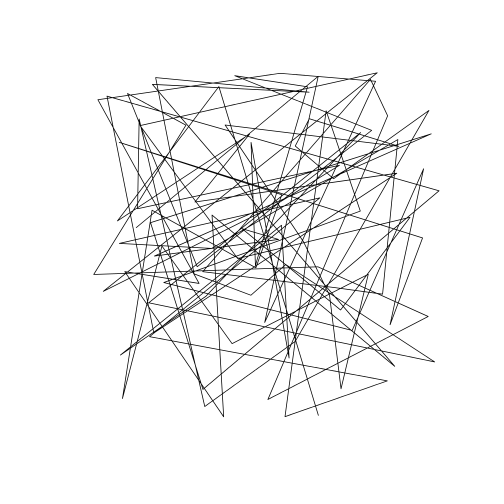
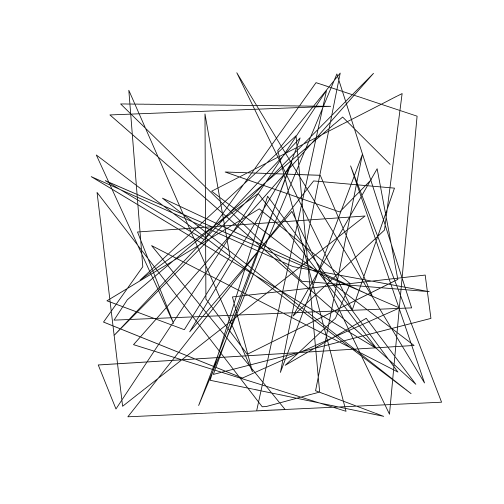
Deploy mhallwor/mhallwor.github.io to github.com/mhallwor/mhallwor.github.io.git:master

Changed region(s): [[0.1786, 0.1488, 0.8929, 0.8333]]

diff --git a/_pages/basics_SpatialPoints.md b/_pages/basics_SpatialPoints.md
@@ -51,7 +51,7 @@ If installing these packages for the first time consider adding <code>dependenci
         
 <br>
 
-<a href="https://raw.githubusercontent.com/mhallwor/mhallwor.github.io/develop/Rscripts/basics_SpatialPoints.R" target="_blank" class="btn btn--info">Download R script</a> Last modified: 2019-09-06 14:31:19
+<a href="https://raw.githubusercontent.com/mhallwor/mhallwor.github.io/develop/Rscripts/basics_SpatialPoints.R" target="_blank" class="btn btn--info">Download R script</a> Last modified: 2019-09-06 15:11:12
 
 <hr>
 
@@ -85,12 +85,12 @@ head(cbind(x_coords,y_coords))
 
 ```
 ##       x_coords y_coords
-## [1,] -86.97697 28.18773
-## [2,] -82.86484 34.03369
-## [3,] -89.43749 38.66370
-## [4,] -90.74652 29.84924
-## [5,] -97.77447 35.58599
-## [6,] -92.55079 26.32580
+## [1,] -87.04578 35.01953
+## [2,] -88.00847 37.36720
+## [3,] -95.77084 29.40985
+## [4,] -86.99423 31.60990
+## [5,] -82.89600 27.63356
+## [6,] -83.86421 38.52248
 ```
 
 Now that we have generated random coordinates we can make those data spatially explicit. We'll use the `SpatialPoints` function in the `sp` package to do that. Before we use the function let's see what arguments we need to pass to `SpatialPoints`.
@@ -124,11 +124,11 @@ str(firstPoints)
 
 ```
 ## Formal class 'SpatialPoints' [package "sp"] with 3 slots
-##   ..@ coords     : num [1:100, 1:2] -87 -82.9 -89.4 -90.7 -97.8 ...
+##   ..@ coords     : num [1:100, 1:2] -87 -88 -95.8 -87 -82.9 ...
 ##   .. ..- attr(*, "dimnames")=List of 2
 ##   .. .. ..$ : NULL
 ##   .. .. ..$ : chr [1:2] "x_coords" "y_coords"
-##   ..@ bbox       : num [1:2, 1:2] -99.8 25.1 -80.1 44.7
+##   ..@ bbox       : num [1:2, 1:2] -99.8 25.2 -80 44.9
 ##   .. ..- attr(*, "dimnames")=List of 2
 ##   .. .. ..$ : chr [1:2] "x_coords" "y_coords"
 ##   .. .. ..$ : chr [1:2] "min" "max"
@@ -166,7 +166,7 @@ euclidDist <- sp::spDists(firstPoints,longlat = FALSE)
 ```
 
 ```
-##  num [1:100, 1:100] 0 7.15 10.76 4.12 13.09 ...
+##  num [1:100, 1:100] 0 2.54 10.37 3.41 8.47 ...
 ```
 
 Another option is to calculate the GreatCircle distance. 
@@ -178,7 +178,7 @@ gcDist <- sp::spDists(firstPoints,longlat = TRUE)
 
 
 ```
-##  num [1:100, 1:100] 0 757 1184 411 1309 ...
+##  num [1:100, 1:100] 0 275 1031 378 909 ...
 ```
 
 ![plot of chunk unnamed-chunk-5](/figure/pages/basics_SpatialPoints/unnamed-chunk-5-1.png)

diff --git a/_pages/basics_SpatialLines.md b/_pages/basics_SpatialLines.md
@@ -53,7 +53,7 @@ If installing these packages for the first time consider adding <code>dependenci
         
 <br>
 
-<a href="https://raw.githubusercontent.com/mhallwor/mhallwor.github.io/develop/Rscripts/basics_SpatialLines.R" target="_blank" class="btn btn--info">Download R script</a> Last modified: 2019-09-06 14:31:19
+<a href="https://raw.githubusercontent.com/mhallwor/mhallwor.github.io/develop/Rscripts/basics_SpatialLines.R" target="_blank" class="btn btn--info">Download R script</a> Last modified: 2019-09-06 15:11:12
 
 <hr>
 
@@ -81,12 +81,12 @@ ID <- paste0("line_",1:100)
 
 ```
 ##    x_coords y_coords     ID
-## 1 -86.98760 25.16135 line_1
-## 2 -92.73426 44.15629 line_2
-## 3 -98.59655 36.39272 line_3
-## 4 -90.96307 41.40883 line_4
-## 5 -94.11664 37.48520 line_5
-## 6 -82.45573 39.14899 line_6
+## 1 -82.95681 39.56960 line_1
+## 2 -85.65933 42.26265 line_2
+## 3 -97.91157 31.86510 line_3
+## 4 -98.66840 30.70418 line_4
+## 5 -81.73140 31.40011 line_5
+## 6 -85.98674 44.71538 line_6
 ```
 
 Now that we have the endpoints, we need to create a <code>Line</code> object then convert that to a <code>Lines</code> object and give them an ID then we can finally convert them to <code>SpatialLines</code>. Here, we'll use the first two points for our first line.
@@ -116,7 +116,7 @@ sp_line <- as(points,"SpatialLines")
 ```
 ## class       : SpatialLines 
 ## features    : 1 
-## extent      : -99.96501, -80.01266, 25.07576, 44.95179  (xmin, xmax, ymin, ymax)
+## extent      : -99.9689, -80.02775, 25.20104, 44.78165  (xmin, xmax, ymin, ymax)
 ## crs         : NA
 ```
 
@@ -141,7 +141,7 @@ rgeos::gLength(sp_line)
 ```
 
 ```
-## [1] 994.5918
+## [1] 1088.929
 ```
 
 Another option is to return the great circle distance. The following code calculates the great circle distance along a line and returns the distance in meters. 
@@ -152,7 +152,7 @@ geosphere::lengthLine(sp_line)
 ```
 
 ```
-## [1] 99062555
+## [1] 111482369
 ```
 
 <div style="background-color: #ffffe6; border-radius: 25px; text-align:center; vertical-align: middle; padding: 3px 0; margin: auto; width:600px; box-shadow: 4px 5px #f2f2f2;"> 

diff --git a/_pages/R_basics.md b/_pages/R_basics.md
@@ -518,8 +518,8 @@ str(list.data)
 ##  $ id       : int [1:5] 1 2 3 4 5
 ##  $ names    : chr [1:2] "Dr. Seuss" "Cat in the hat"
 ##  $ DataFrame:'data.frame':	10 obs. of  2 variables:
-##   ..$ starttimes: num [1:10] -0.848 -2.694 -0.294 -0.533 -1.393 ...
-##   ..$ endtimes  : num [1:10] 27.7 25.9 26.3 28.4 28.3 ...
+##   ..$ starttimes: num [1:10] -0.511 -0.328 1.144 -0.115 0.725 ...
+##   ..$ endtimes  : num [1:10] 27.1 28.4 21.3 28.3 22.7 ...
 ```
 
 ```r
@@ -535,16 +535,16 @@ list.data
 ## 
 ## $DataFrame
 ##    starttimes endtimes
-## 1  -0.8480566 27.70237
-## 2  -2.6936647 25.90761
-## 3  -0.2942636 26.25646
-## 4  -0.5327080 28.35952
-## 5  -1.3930423 28.29071
-## 6  -0.5289242 20.68907
-## 7  -0.2054674 29.64226
-## 8   1.2449536 28.70912
-## 9  -2.3816743 22.98064
-## 10  0.4738619 28.36725
+## 1  -0.5114304 27.07255
+## 2  -0.3277939 28.35181
+## 3   1.1441886 21.25882
+## 4  -0.1150510 28.34682
+## 5   0.7253942 22.73851
+## 6   0.6497372 22.61418
+## 7   0.3848442 22.07221
+## 8   0.7783487 21.69545
+## 9   0.5486185 26.07782
+## 10 -0.8821229 25.48114
 ```
 Accessing data stored within lists can be a little tricky.    
 Here is an example of how to extract the 5th element of starttime in the DataFrame object in our list.data object. 
@@ -554,7 +554,7 @@ list.data[[3]][5,1]
 ```
 
 ```
-## [1] -1.393042
+## [1] 0.7253942
 ```
 
 ```r
@@ -562,7 +562,7 @@ list.data[[3]]$starttime[5]
 ```
 
 ```
-## [1] -1.393042
+## [1] 0.7253942
 ```
 
 ```r
@@ -570,9 +570,9 @@ list.data$DataFrame$starttime[5]
 ```
 
 ```
-## [1] -1.393042
+## [1] 0.7253942
 ```
 
 <a href="#TOP">back to top</a>
 
-<a href="https://raw.githubusercontent.com/mhallwor/mhallwor.github.io/develop/Rscripts/R_basics.R" target="_blank" class="btn btn--info">Download R script</a> Last modified: 2019-09-06 14:31:19
+<a href="https://raw.githubusercontent.com/mhallwor/mhallwor.github.io/develop/Rscripts/R_basics.R" target="_blank" class="btn btn--info">Download R script</a> Last modified: 2019-09-06 15:11:12

diff --git a/_pages/advanced_Rasters.md b/_pages/advanced_Rasters.md
@@ -394,7 +394,7 @@ You may notice that some values are -Inf or Inf. We'll ignore that for now becau
 ## resolution : 231.6564, 231.6564  (x, y)
 ## extent     : -11119505, -10007555, 3335852, 4447802  (xmin, xmax, ymin, ymax)
 ## crs        : +proj=sinu +lon_0=0 +x_0=0 +y_0=0 +a=6371007.181 +b=6371007.181 +units=m +no_defs 
-## source     : /tmp/RtmpuieJqY/raster/r_tmp_2019-09-06_144517_20362_19462.grd 
+## source     : /tmp/RtmpuvqJ8x/raster/r_tmp_2019-09-06_152314_20214_22949.grd 
 ## names      : layer 
 ## values     : -201, 201  (min, max)
 ```
@@ -428,7 +428,7 @@ Sys.time()-a
 ```
 
 ```
-## Time difference of 29.87453 secs
+## Time difference of 27.66883 secs
 ```
 NDVI values should range in the values between -1 and 1. Let's make sure that's the case by setting the upper and lower values manually.
 
@@ -460,7 +460,7 @@ diff_ndvi <- NDVI_2017-NDVI_2000
 ## resolution : 231.6564, 231.6564  (x, y)
 ## extent     : -11119505, -8895604, 3335852, 4447802  (xmin, xmax, ymin, ymax)
 ## crs        : +proj=sinu +lon_0=0 +x_0=0 +y_0=0 +a=6371007.181 +b=6371007.181 +units=m +no_defs 
-## source     : /tmp/RtmpuieJqY/raster/r_tmp_2019-09-06_144753_20362_90692.grd 
+## source     : /tmp/RtmpuvqJ8x/raster/r_tmp_2019-09-06_152543_20214_46099.grd 
 ## names      : layer 
 ## values     : -2, 2  (min, max)
 ```
@@ -542,4 +542,4 @@ plotRGB(ndvi_brick)
 <a href="#TOP">Back to top</a>
 
 
-<a href="https://raw.githubusercontent.com/mhallwor/mhallwor.github.io/develop/Rscripts/advanced_Rasters.R" target="_blank" class="btn btn--info">Download R script</a> Last modified: 2019-09-06 14:31:19
+<a href="https://raw.githubusercontent.com/mhallwor/mhallwor.github.io/develop/Rscripts/advanced_Rasters.R" target="_blank" class="btn btn--info">Download R script</a> Last modified: 2019-09-06 15:11:12

diff --git a/_pages/projections.md b/_pages/projections.md
@@ -56,7 +56,7 @@ If installing these packages for the first time consider adding <code>dependenci
 <br>
 <hr> 
 
-<a href="https://raw.githubusercontent.com/mhallwor/mhallwor.github.io/master/Rscripts/projections.R" target="_blank" class="btn btn--info">Download R script</a> Last modified: 2019-09-06 14:31:19
+<a href="https://raw.githubusercontent.com/mhallwor/mhallwor.github.io/master/Rscripts/projections.R" target="_blank" class="btn btn--info">Download R script</a> Last modified: 2019-09-06 15:11:12
 
 # Projections
 The reason we need projections is so that we can map a three dimensional surface - like the earth in two dimensional space. Unfortunately, not all properties of the 3D surface are maintained when plotting in 2D space. Attributes of the 3D surface such as area, distance, shape and direction are distorted when creating a 2D map. Projections define the way we distort the 3D surface in order to render it in 2D. The projection is the mathmatical equation used to 'flatten' the world. Every time we create a map we distort the true surface in some fashion. Different projections preserve different aspects of the 3D properties. Therefore, knowing which projections to use is important when doing spatial analyses. For example, if you're looking to create a map that looks 'correct' a conformal projection might be used as these types of projections preserve shape. If you're looking to make accurate distance measurements on a surface projections in the equidistant class are appropriate. Take a look at this <a href = "http://projections.mgis.psu.edu/" target="_blank">interactive map</a> that shows different projections - be sure to turn on the distortion ellipse so you can see how distortion changes. 

diff --git a/website/CV.md b/website/CV.md
@@ -28,8 +28,10 @@ Last updated: 2019-09-06
                                                                                
 **2014-2015** _Postdoctoral research associate_ - University of Maryland, Baltimore County, Baltimore, MD.						                    Geography & Environmental Systems
 
- <div style="content:""; display: table; clear: both;">
-  <div style="float: left; width: 60%;">
+ <div style="content:""; display: table; clear: both">
+ 
+  <div style="float: left; width: 60%">
+  
   <h2><b>Education</b></h2>
   <p style="text-indent: -2em; margin-left: 3em; font-size: 12pt"><b>Ph.D.</b>, Environmental Science and Public Policy, 2014.
 George Mason University, Fairfax, VA.<br>Advisors: Dr. Peter P. Marra & Dr. Larry Rockwood</p>
@@ -40,23 +42,25 @@ Plymouth State University, Plymouth, NH.<br>Advisor: Dr. Leonard Reitsma</p>
 <p style="text-indent: -2em; margin-left: 3em; font-size: 12pt"><b>B.S.</b>, Biology, 2004.
 Plymouth State University, Plymouth, NH.<br>Minor: Chemistry</p>    
   </div>
+  
   <div style="float: left; width: 40%; background-color: #f0f0f5;
               border: 2px solid black; border-radius: 8px;
               text-align: center;
               box-shadow: 5px 5px #888888;
               font-size: 12pt">
   <br>
-  <h3><b>Career Highlights</b></h3>
+  <h2><b>Career Highlights</b></h2>
 <p><b>24</b> peer-reviewed publications<br>
      <b>h-index</b> = 10 <br>
      <b>i10-index</b> = 10 <br>
      <b>total citations</b> = 336 <br>
 
-Over $305,000 in competitive grants <br>
+Over <b>$305,000</b> in competitive grants <br>
 <b>Best Dissertation Award, 2014-2015</b></p>
 <br>
   </div>
 </div>
+
 <br>
 <br>
 <h2><b>Teaching</b></h2>

diff --git a/_pages/activities_ExtractRasterValues.md b/_pages/activities_ExtractRasterValues.md
@@ -64,7 +64,7 @@ If installing these packages for the first time consider adding <code>dependenci
 </div>
         
 <br>
-<a href="https://raw.githubusercontent.com/mhallwor/mhallwor.github.io/develop/Rscripts/activities_ExtractRasterValues.R" target="_blank" class="btn btn--info">Download R script</a> Last modified: 2019-09-06 14:31:19
+<a href="https://raw.githubusercontent.com/mhallwor/mhallwor.github.io/develop/Rscripts/activities_ExtractRasterValues.R" target="_blank" class="btn btn--info">Download R script</a> Last modified: 2019-09-06 15:11:12
 <hr>
 
 
@@ -278,7 +278,7 @@ Sys.time()-a
 ```
 
 ```
-## Time difference of 2.424114 mins
+## Time difference of 2.401026 mins
 ```
 
 ```r
@@ -291,7 +291,7 @@ Sys.time() - b
 ```
 
 ```
-## Time difference of 25.49121 secs
+## Time difference of 25.3853 secs
 ```
  
 <div style="background-color: #ffffe6; border-radius: 25px; text-align:center; vertical-align: middle; padding: 3px 0; margin: auto; width:600px; box-shadow: 4px 5px #f2f2f2;"> 

diff --git a/_pages/spatial_predicates.md b/_pages/spatial_predicates.md
@@ -57,7 +57,7 @@ If installing these packages for the first time consider adding <code>dependenci
         
 <br>
 
-<a href="https://raw.githubusercontent.com/mhallwor/mhallwor.github.io/develop/Rscripts/spatial_predicates.R" target="_blank" class="btn btn--info">Download R script</a> Last modified: 2019-09-06 14:31:19
+<a href="https://raw.githubusercontent.com/mhallwor/mhallwor.github.io/develop/Rscripts/spatial_predicates.R" target="_blank" class="btn btn--info">Download R script</a> Last modified: 2019-09-06 15:11:12
 
 <hr> 
 
@@ -200,7 +200,7 @@ Sys.time()-a
 ```
 
 ```
-## Time difference of 6.401622 secs
+## Time difference of 6.166784 secs
 ```
 
 ```r
@@ -212,7 +212,7 @@ Sys.time()-a
 ```
 
 ```
-## Time difference of 8.035151 secs
+## Time difference of 7.684755 secs
 ```
 
 ![plot of chunk unnamed-chunk-12](/figure/pages/spatial_predicates/unnamed-chunk-12-1.png)

diff --git a/_pages/Tidyverse_intro.md b/_pages/Tidyverse_intro.md
@@ -37,7 +37,7 @@ If installing these packages for the first time consider adding <code>dependenci
 <br>
 This activity will integrate spatial data with the tidyverse. See <a href = "{{ site.baseurl }}/_pages/tidyverse_basics" target="_blank">introduction to the tidyverse</a> for more information on the tidyverse.
 
-<a href="https://raw.githubusercontent.com/mhallwor/mhallwor.github.io/develop/Rscripts/Tidyverse_intro.R" target="_blank" class="btn btn--info">Download R script</a> Last modified: 2019-09-06 14:31:19
+<a href="https://raw.githubusercontent.com/mhallwor/mhallwor.github.io/develop/Rscripts/Tidyverse_intro.R" target="_blank" class="btn btn--info">Download R script</a> Last modified: 2019-09-06 15:11:12
 
 ## The tidyverse and spatial data
 

diff --git a/_pages/01_getting_started.md b/_pages/01_getting_started.md
@@ -114,4 +114,4 @@ Running Windows and interested in MODIS data? You will need <strong>OSGeo4W</str
 
 *Setup instructions are based on a very helpful [post by Nick Eubank](http://www.nickeubank.com/wp-content/uploads/2015/10/RGIS1_SpatialDataTypes_part0_setup.html)*
 
-<a href="https://raw.githubusercontent.com/mhallwor/mhallwor.github.io/develop/Rscripts/getting_started.R" target="_blank" class="btn btn--info">Download R script</a> Last modified: 2019-09-06 14:31:19
+<a href="https://raw.githubusercontent.com/mhallwor/mhallwor.github.io/develop/Rscripts/getting_started.R" target="_blank" class="btn btn--info">Download R script</a> Last modified: 2019-09-06 15:11:12

diff --git a/_pages/activities_GenerateTerritories.md b/_pages/activities_GenerateTerritories.md
@@ -58,7 +58,7 @@ If installing these packages for the first time consider adding <code>dependenci
         
 <br>
 
-<a href="https://raw.githubusercontent.com/mhallwor/mhallwor.github.io/develop/Rscripts/activities_GenerateTerritories.R" target="_blank" class="btn btn--info">Download R script</a> Last modified: 2019-09-06 14:31:19
+<a href="https://raw.githubusercontent.com/mhallwor/mhallwor.github.io/develop/Rscripts/activities_GenerateTerritories.R" target="_blank" class="btn btn--info">Download R script</a> Last modified: 2019-09-06 15:11:12
 
 <hr> 
 

diff --git a/_pages/basics_SpatialPolygons.md b/_pages/basics_SpatialPolygons.md
@@ -52,7 +52,7 @@ If installing these packages for the first time consider adding <code>dependenci
         
 <br>
 
-<a href="https://raw.githubusercontent.com/mhallwor/mhallwor.github.io/develop/Rscripts/basics_SpatialPolygons.R" target="_blank" class="btn btn--info">Download R script</a> Last modified: 2019-09-06 14:31:19
+<a href="https://raw.githubusercontent.com/mhallwor/mhallwor.github.io/develop/Rscripts/basics_SpatialPolygons.R" target="_blank" class="btn btn--info">Download R script</a> Last modified: 2019-09-06 15:11:12
 
 <hr>
 
